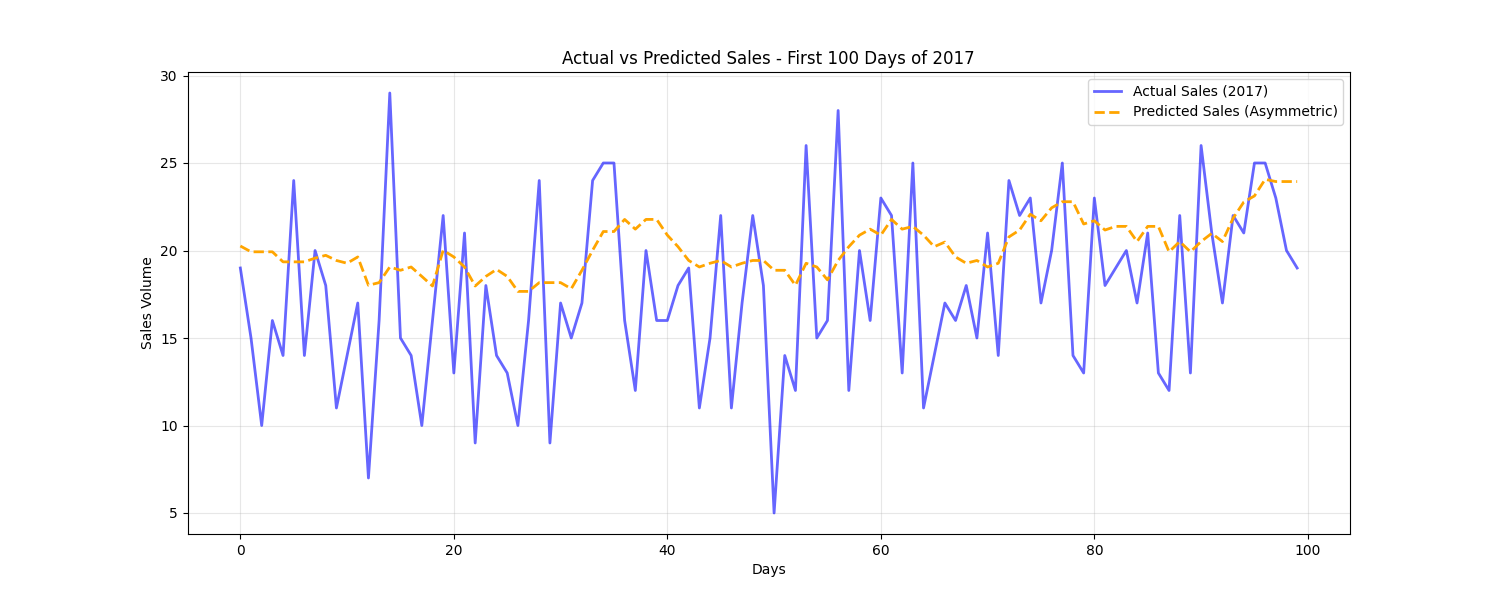
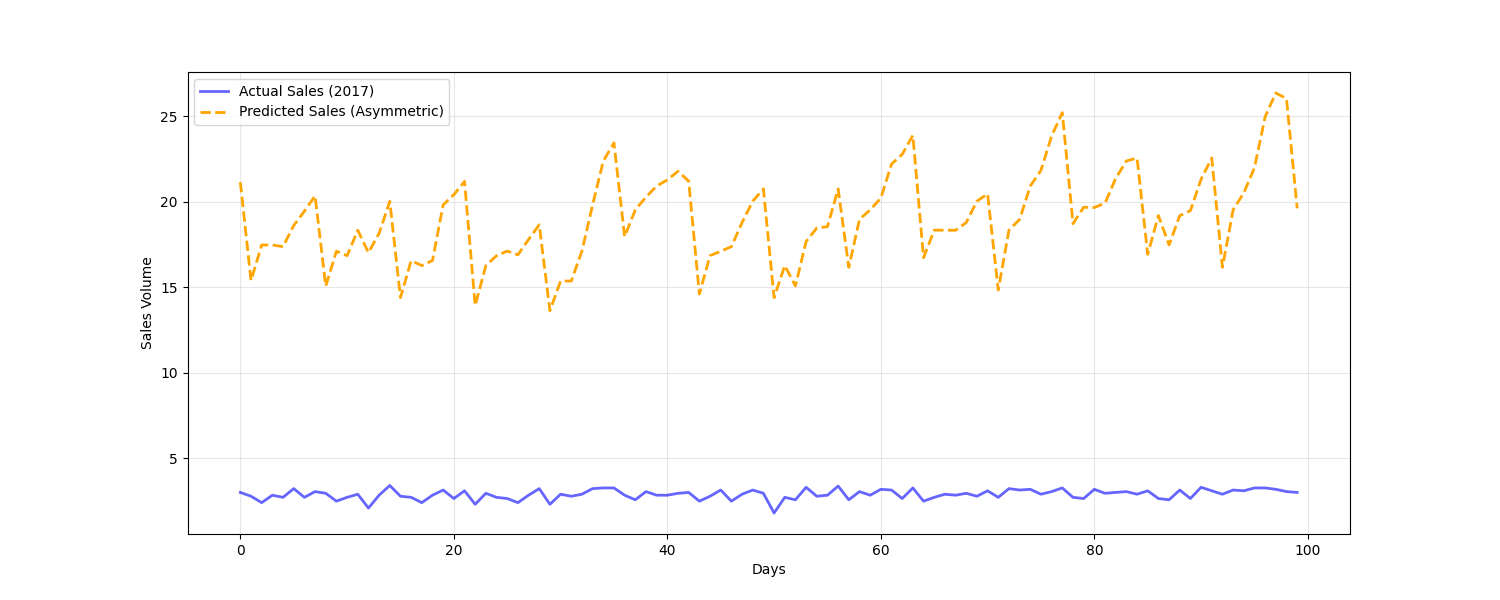
chore

diff --git a/exercises/15_Iterative_Gradient_Boosting_&_Custom_Losses/pipeline.py b/exercises/15_Iterative_Gradient_Boosting_&_Custom_Losses/pipeline.py
@@ -3,7 +3,6 @@ import numpy as np
 import matplotlib.pyplot as plt
 
 from sklearn.preprocessing import StandardScaler
-from sklearn.model_selection import GridSearchCV, TimeSeriesSplit
 from sklearn.metrics import mean_squared_error, mean_absolute_error, mean_absolute_percentage_error, r2_score, make_scorer
 from xgboost import XGBRegressor
 
@@ -22,11 +21,23 @@ asymmetric_scorer = make_scorer(asymmetric_eval, greater_is_better=False)
 
 def load_data():
     df = pd.read_csv("exercises/15_Iterative_Gradient_Boosting_&_Custom_Losses/store-item.csv")
+    df = df.sort_values(['store', 'item', 'date'])
     df['date'] = pd.to_datetime(df['date'])
     df = df.set_index('date')
 
-    df['MA7'] = df.groupby(['store', 'item'])['sales'].transform(lambda x: x.rolling(7).mean())
-    df['MA50'] = df.groupby(['store', 'item'])['sales'].transform(lambda x: x.rolling(50).mean())
+    group = df.groupby(['store', 'item'])['sales']
+
+    df['day_of_week'] = df.index.dayofweek
+    df['month'] = df.index.month
+    df['is_weekend'] = (df.index.dayofweek >= 5).astype(int)
+
+    df['lag_1'] = group.shift(1)
+    df['lag_7'] = group.shift(7)
+
+    df['MA7'] = group.transform(lambda x: x.rolling(7).mean())
+    df['MA50'] = group.transform(lambda x: x.rolling(50).mean())
+
+    df['sales'] = np.log1p(df['sales'])
 
     df = df.dropna()
     
@@ -34,8 +45,6 @@ def load_data():
 
 if __name__ == "__main__":
     X, y = load_data()
-
-    tscv = TimeSeriesSplit(n_splits=3)
 
     X_train = X[X.index < '2017-01-01']
     X_test = X[X.index >= '2017-01-01']
@@ -57,12 +66,14 @@ if __name__ == "__main__":
         eval_set=[(X_train_scaled, y_train), (X_test_scaled, y_test)],
         verbose=False,
     )
-    preds = model.predict(X_test_scaled)
 
-    rmse = np.sqrt(mean_squared_error(y_test, preds))
-    mae = mean_absolute_error(y_test, preds)
-    mape = mean_absolute_percentage_error(y_test, preds)
-    r2 = r2_score(y_test, preds)
+    preds = np.expm1(model.predict(X_test_scaled))
+    y_test_original = np.expm1(y_test)
+
+    rmse = np.sqrt(mean_squared_error(y_test_original, preds))
+    mae = mean_absolute_error(y_test_original, preds)
+    mape = mean_absolute_percentage_error(y_test_original, preds)
+    r2 = r2_score(y_test_original, preds)
 
     print(f"rmse: {rmse:.4f} | mae: {mae:.4f} | mape: {mape:.4f} | r2: {r2:.4f}")
 
